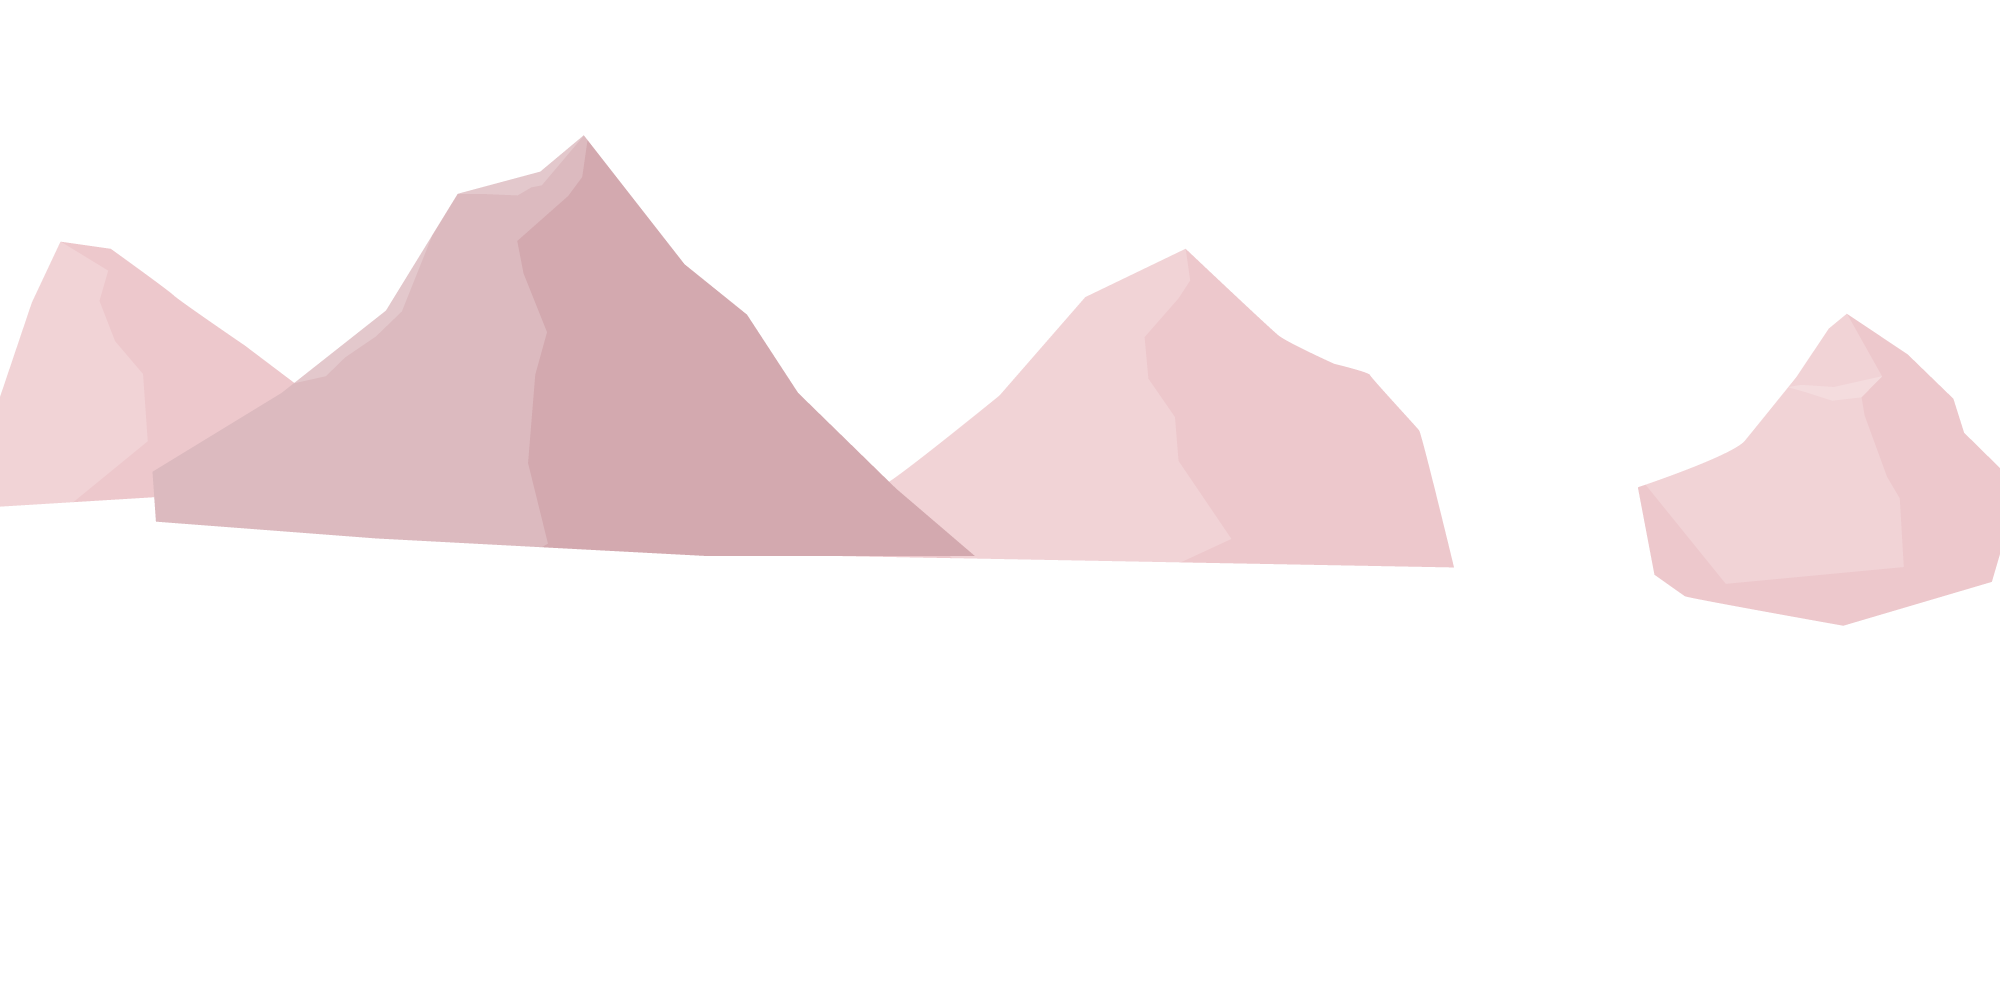
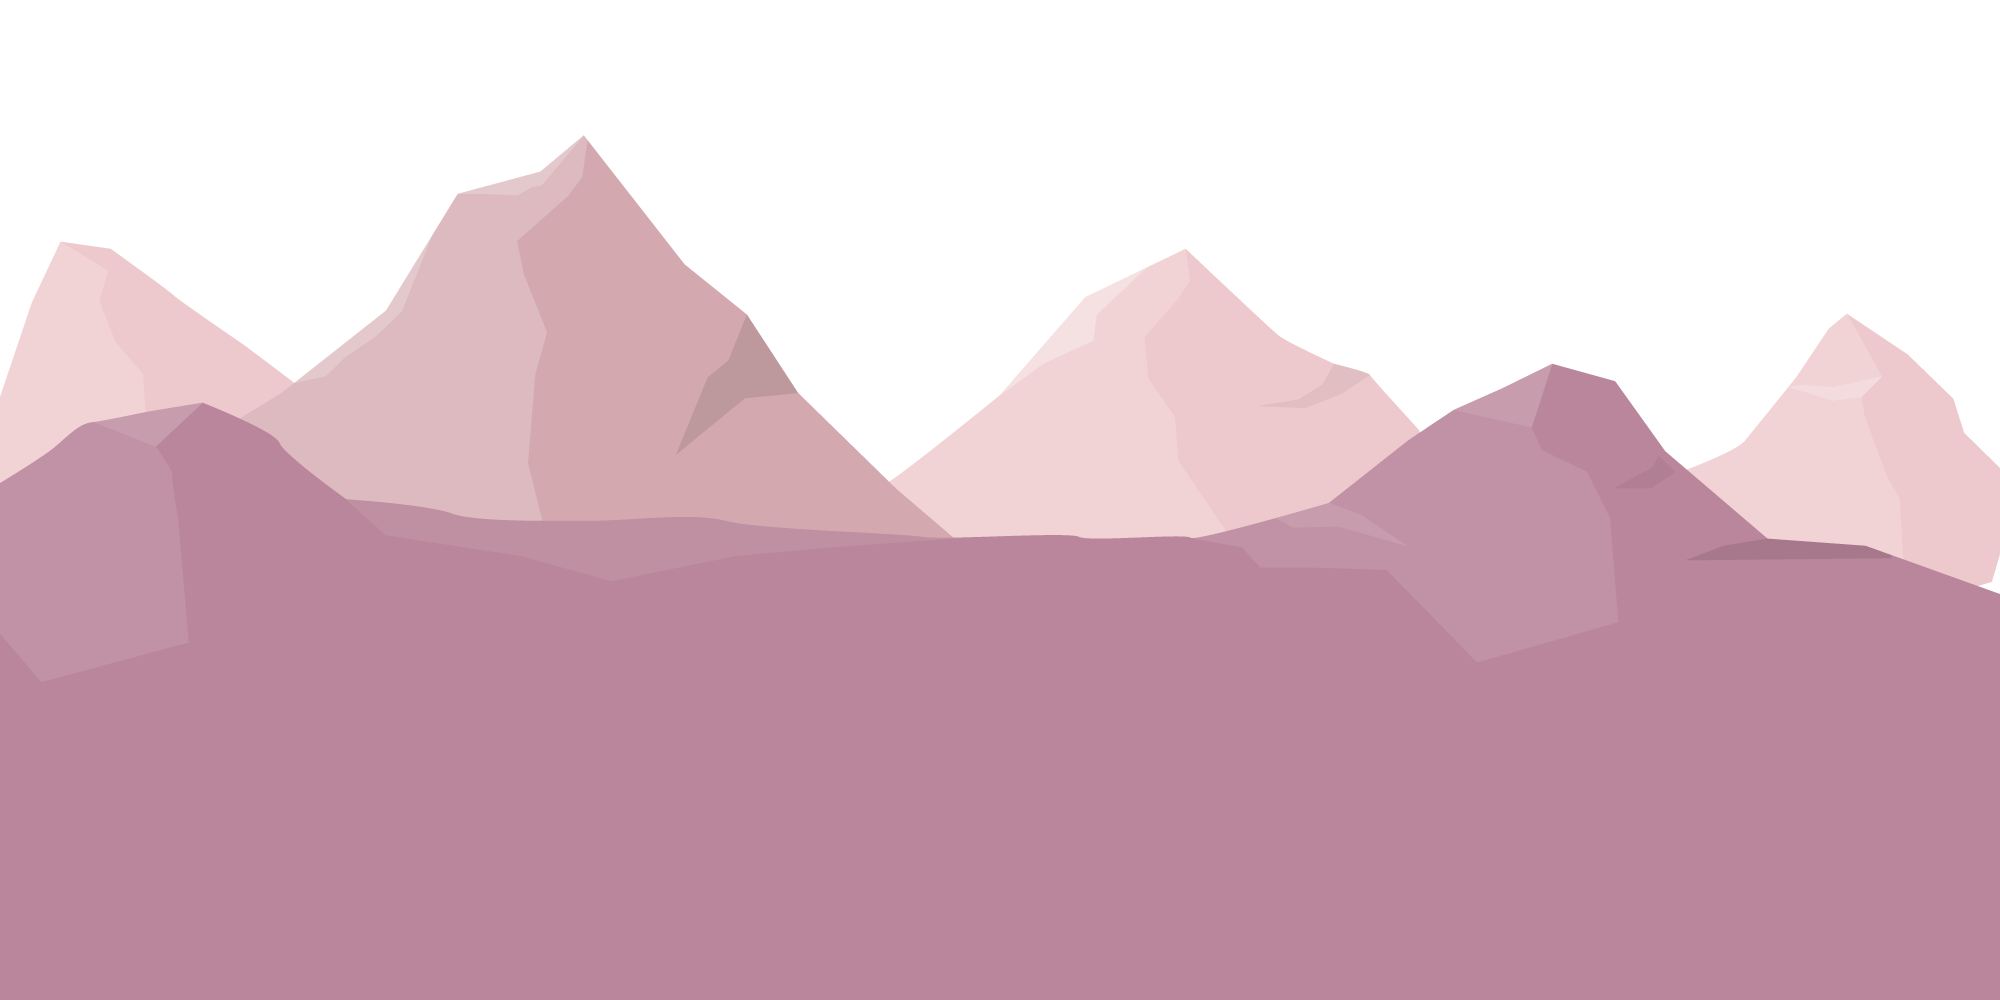
배경 동믈추가, bg색 변경, 강 splash 이미지 추가

diff --git a/src/components/Visual.jsx b/src/components/Visual.jsx
@@ -8,9 +8,12 @@ const Visual = () => {
   const forest = useRef(null);
   const forestBg = useRef(null);
   const sun = useRef(null);
-  const bird = useRef(null);
+  const splash1 = useRef(null);
+  const splash2 = useRef(null);
   const river = useRef(null);
   const text = useRef(null);
+  const bird1 = useRef(null);
+  const bird2 = useRef(null);
 
   window.addEventListener('scroll', function(){
     let value = window.scrollY;
@@ -18,16 +21,20 @@ const Visual = () => {
     cloud1.current.style.setProperty('top', value * - 0.2 + "px");
     cloud2.current.style.setProperty('top', value * - 0.1 + "px");
     cloud3.current.style.setProperty('top', value * 0.4 + "px");
+    sun.current.style.setProperty('top', value * 0.7 + "px");
 
     forest.current.style.setProperty('top', value * - 0.25 + "px");
     forestBg.current.style.setProperty('height', value * 0.3 + "px");
 
-    sun.current.style.setProperty('top', value * 0.7 + "px");
-    bird.current.style.setProperty('top', value * -0.25 + "px");
-
-
+    splash1.current.style.setProperty('top', value * -0.53 + "px");
+    splash2.current.style.setProperty('top', value * -0.53 + "px");
     river.current.style.setProperty('top', value * -0.15 + "px");
     text.current.style.setProperty('margin-top', value * 0.7 + "px");
+
+    bird1.current.style.setProperty('top', value * -0.7 + "px");
+    bird1.current.style.setProperty('left', value * 0.8 + "px");
+    bird2.current.style.setProperty('top', value * -0.6 + "px");
+    bird2.current.style.setProperty('left', value * 0.6 + "px");
 
   });
 
@@ -46,14 +53,16 @@ const Visual = () => {
       <div className="space stars3"></div>
       <img src="../../public/image/sun.png" alt="해" ref={sun}/>
       <img src="../../public/image/mountain1.png" alt="산1" />
-      <img src="../../public/image/mountain2.png" alt="산2" />
       <p className="visual-text" ref={text} >Soyeon&#39;s Home</p>
+      <img src="../../public/image/splash01.png" ref={splash1} alt="물방울1" />
+      <img src="../../public/image/splash02.png" ref={splash2} alt="물방울2" />
       <img src="../../public/image/river.png" alt="강" ref={river} />
       <img src="../../public/image/mountain3.png" alt="산3" />
       <img src="../../public/image/mountain4.png" alt="산4" />
       <img src="../../public/image/forest.png" className="forest" alt="숲" ref={forest}  />
       <div className="forestBg" ref={forestBg}></div>
-      <img src="../../public/image/bird.png" className="bird" alt="새" ref={bird} />
+      <img src="../../public/image/bird1.png" className="bird" alt="새" ref={bird1} />
+      <img src="../../public/image/bird2.png" className="bird" alt="새" ref={bird2} />
     </section>
     </>
   );

diff --git a/public/css/common.css b/public/css/common.css
@@ -212,7 +212,7 @@ body::-webkit-scrollbar-thumb{background:var( --color-grayscale-03); border-radi
 .curtain .left{ width:50%; height:100vh; background:#fff; animation:cartuain .7s linear forwards; animation-delay: .5s;}
 .curtain .right{  width:calc(50%); height:100vh;  background:#fff;  animation:cartuain .7s linear forwards;  animation-delay: .5s;}
 .visual{ position:relative; width:100%; height:100vh; display:flex; justify-content: center; align-items: center; overflow:hidden;}
-.visual::before{content:''; position:absolute; bottom:0; left:0; width:100%; height:100%; background:linear-gradient(to top, #fabdc1 85%,#669dd0); }
+.visual::before{content:''; position:absolute; bottom:0; left:0; width:100%; height:100%; background:linear-gradient(to top, #989bdb 75%, #3f547c);}
 .visual img{ position:absolute; top:0; left:0; width:100%; height:100%; object-fit: cover; pointer-events: none;}
 .visual .visual-text{ position:absolute; font-size:90px;  font-weight:bold; width:100%; text-align:center;color:#fff; left:50%; top:50%; transform:translate(-50%, -50%); filter: drop-shadow(2px 2px 2px #312451); font-family:BMDOHYEON;}
 .space{ position: absolute; top: 50%; left: 50%; background-color: #fff; border-radius: 50%;}
